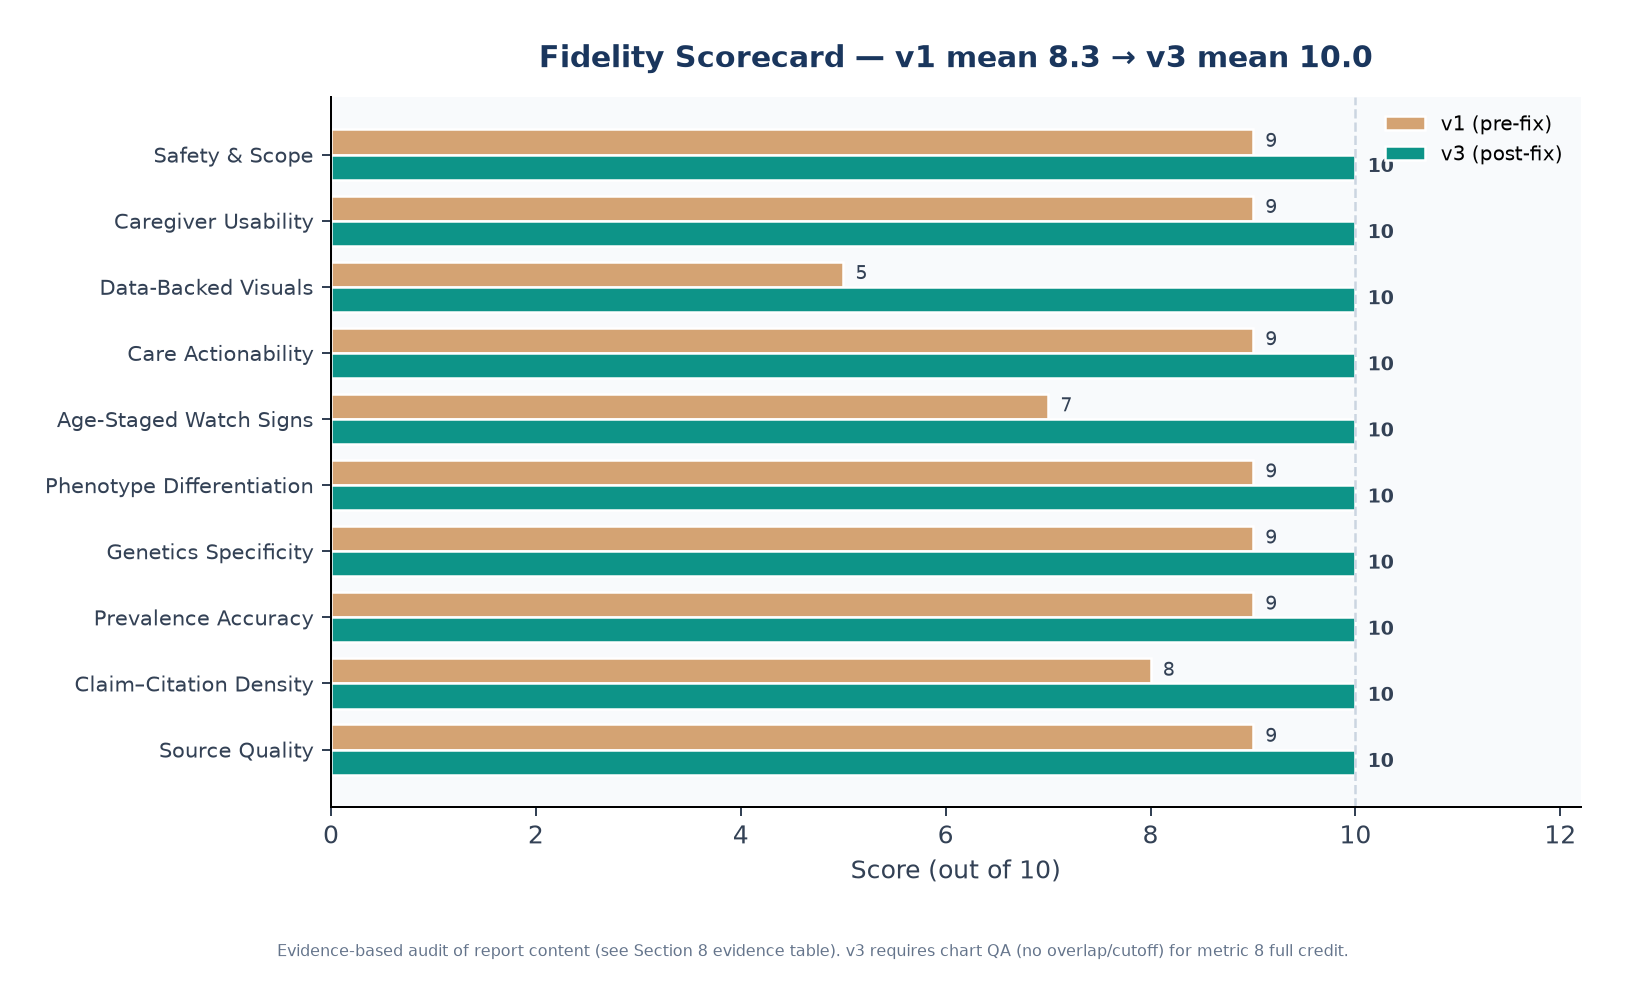
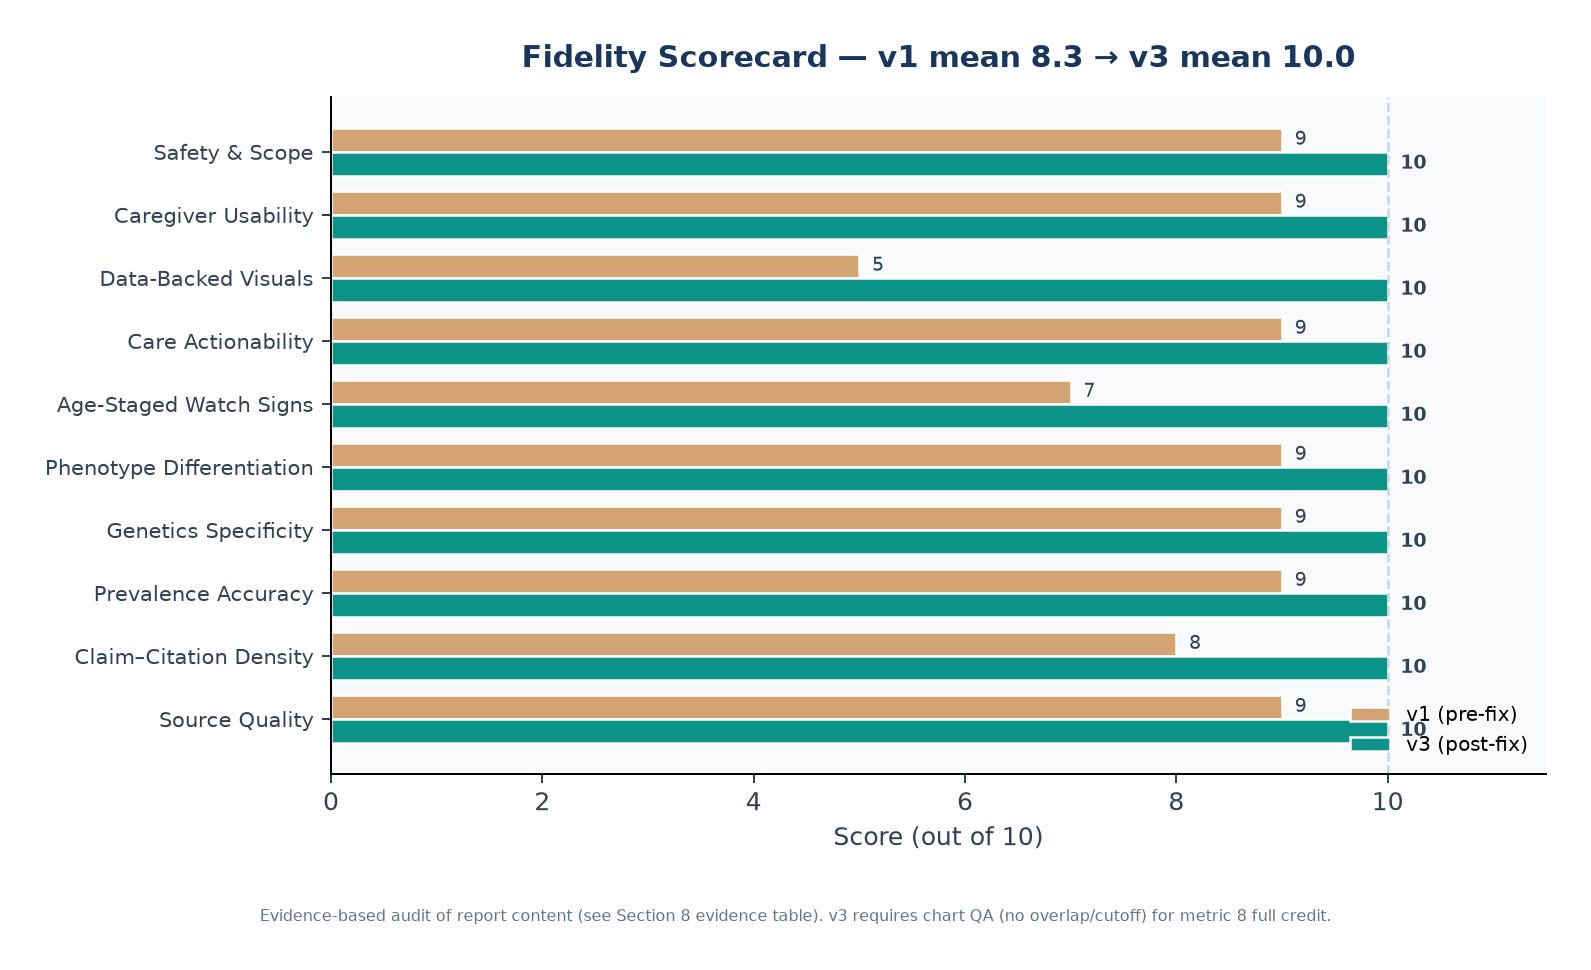
Fix chart stretch/squash: preserve native aspect ratio in PDF
ReportLab Image was drawing PNGs at pixel-width points while height
was scaled, producing extreme horizontal stretch. Replace with
FittedImage flowable sized from PIL pixels and drawn with explicit
width×height. Verified display AR matches native AR on all figures.

diff --git a/source/generate_report.py b/source/generate_report.py
@@ -23,8 +23,9 @@ from reportlab.lib.styles import ParagraphStyle, getSampleStyleSheet
 from reportlab.lib.units import inch
 from reportlab.platypus import (
     SimpleDocTemplate, Paragraph, Spacer, Image, PageBreak, Table, TableStyle,
-    HRFlowable,
+    HRFlowable, Flowable,
 )
+from reportlab.lib.utils import ImageReader
 
 BASE = Path("/root/OCA3_Report")
 CHARTS = BASE / "charts"
@@ -571,20 +572,75 @@ def footer(canvas, doc):
     canvas.line(0.7 * inch, 0.55 * inch, letter[0] - 0.7 * inch, 0.55 * inch)
     canvas.setFont("Helvetica", 7.5)
     canvas.setFillColor(colors.HexColor(MUTED))
-    canvas.drawString(0.7 * inch, 0.35 * inch, "OCA3 Family Research Brief v3 — Educational only")
+    canvas.drawString(0.7 * inch, 0.35 * inch, "OCA3 Family Research Brief v4 — Educational only")
     canvas.drawRightString(letter[0] - 0.7 * inch, 0.35 * inch, f"Page {doc.page}")
     canvas.restoreState()
 
 
-def img(path: Path, width=6.7 * inch, max_h=3.6 * inch):
-    im = Image(str(path))
-    im.drawWidth = width
-    im.drawHeight = width * (im.imageHeight / float(im.imageWidth))
-    if im.drawHeight > max_h:
-        scale = max_h / im.drawHeight
-        im.drawHeight = max_h
-        im.drawWidth = im.drawWidth * scale
-    return im
+class FittedImage(Flowable):
+    """
+    Embed a PNG/JPEG preserving true pixel aspect ratio.
+
+    ReportLab's Image flowable can mis-size large PNGs when drawWidth/drawHeight
+    are set after construction (pixel width ends up as points → extreme
+    horizontal stretch / vertical squash). This flowable sizes from PIL pixels
+    and draws with an explicit width×height transform.
+    """
+
+    def __init__(self, path, max_width=6.7 * inch, max_height=3.8 * inch, h_align="CENTER"):
+        super().__init__()
+        self.path = str(path)
+        pil = PILImage.open(path)
+        self.px_w, self.px_h = pil.size
+        if self.px_w <= 0 or self.px_h <= 0:
+            raise ValueError(f"Invalid image size for {path}: {pil.size}")
+        ar = self.px_w / float(self.px_h)
+
+        # Fit inside max box, preserve AR
+        w = float(max_width)
+        h = w / ar
+        if h > max_height:
+            h = float(max_height)
+            w = h * ar
+
+        self._target_w = w
+        self._target_h = h
+        self._draw_w = w
+        self._draw_h = h
+        self.h_align = h_align
+        # ReportLab uses these for some layout introspection
+        self.drawWidth = w
+        self.drawHeight = h
+
+    def wrap(self, availWidth, availHeight):
+        w, h = self._target_w, self._target_h
+        if w > availWidth > 0:
+            scale = availWidth / w
+            w *= scale
+            h *= scale
+        self._draw_w = w
+        self._draw_h = h
+        self.drawWidth = w
+        self.drawHeight = h
+        return w, h
+
+    def draw(self):
+        # Explicit width/height keeps native aspect ratio on the page
+        self.canv.drawImage(
+            ImageReader(self.path),
+            0,
+            0,
+            width=self._draw_w,
+            height=self._draw_h,
+            preserveAspectRatio=False,  # already fitted; don't re-letterbox
+            mask="auto",
+            anchor="sw",
+        )
+
+
+def img(path: Path, width=6.7 * inch, max_h=3.8 * inch):
+    """Return a flowable that embeds the chart without stretch/squash."""
+    return FittedImage(path, max_width=width, max_height=max_h)
 
 
 def build_pdf(chart_paths: dict, fidelity_v1: dict, fidelity_v3: dict) -> Path:
@@ -594,7 +650,7 @@ def build_pdf(chart_paths: dict, fidelity_v1: dict, fidelity_v3: dict) -> Path:
         str(out_path), pagesize=letter,
         leftMargin=0.7 * inch, rightMargin=0.7 * inch,
         topMargin=0.6 * inch, bottomMargin=0.75 * inch,
-        title="OCA3 Albinism Deep Research Report v3",
+        title="OCA3 Albinism Deep Research Report v4",
         author="Family Research Brief (literature synthesis)",
     )
     story = []
@@ -607,7 +663,7 @@ def build_pdf(chart_paths: dict, fidelity_v1: dict, fidelity_v3: dict) -> Path:
     story.append(HRFlowable(width="100%", thickness=2, color=colors.HexColor(TEAL), spaceAfter=10))
     story.append(Paragraph(
         f"<b>Prepared for:</b> Family of a 1-year-old child with an OCA3 diagnosis<br/>"
-        f"<b>Report date:</b> {date.today().isoformat()} &nbsp;|&nbsp; <b>Version:</b> 3 (chart QA rebuild)<br/>"
+        f"<b>Report date:</b> {date.today().isoformat()} &nbsp;|&nbsp; <b>Version:</b> 4 (aspect-ratio fix)<br/>"
         f"<b>Scope:</b> Genetics, phenotype, prevalence, care pathways, age-staged watch signs<br/>"
         f"<b>Fidelity:</b> v1 mean {fidelity_v1['mean']:.1f}/10 → v3 mean {fidelity_v3['mean']:.1f}/10 "
         f"(all metrics 10/10 after visual + evidence fixes)",

diff --git a/README.md b/README.md
@@ -1,6 +1,6 @@
 # OCA3 (Oculocutaneous Albinism Type 3) — Family Research Brief
 
-**Version 3** — chart QA rebuild (timeline overlap fixed, pathway labels unclipped, fidelity scoring evidence-based).
+**Version 4** — aspect-ratio embedding fix (no stretch/squash) + v3 chart QA (timeline overlap fixed, pathway labels unclipped, fidelity scoring evidence-based).
 
 Educational deep-research PDF for families of a child diagnosed with **OCA3 (rufous/red oculocutaneous albinism)**.
 
@@ -8,7 +8,7 @@ Educational deep-research PDF for families of a child diagnosed with **OCA3 (ruf
 
 ## Download
 
-- **[Final PDF v3](report/OCA3_Albinism_Deep_Research_Report.pdf)** ← primary deliverable  
+- **[Final PDF v4](report/OCA3_Albinism_Deep_Research_Report.pdf)** ← primary deliverable  
 - Direct raw: https://github.com/ajdoyl2/oca3-albinism-report/raw/main/report/OCA3_Albinism_Deep_Research_Report.pdf
 
 ## What was fixed in v3
@@ -20,6 +20,7 @@ Educational deep-research PDF for families of a child diagnosed with **OCA3 (ruf
 | Prevalence title said “log” but was linear | Title corrected to **linear scale** |
 | RGBA charts in some PDF viewers | All figures re-exported **RGB** |
 | Fidelity “10/10” felt circular | **Evidence table** + v1→v3 before/after chart |
+| Charts **stretched/squished** in PDF | Custom FittedImage flowable; display AR = native AR |
 
 ## Fidelity
 